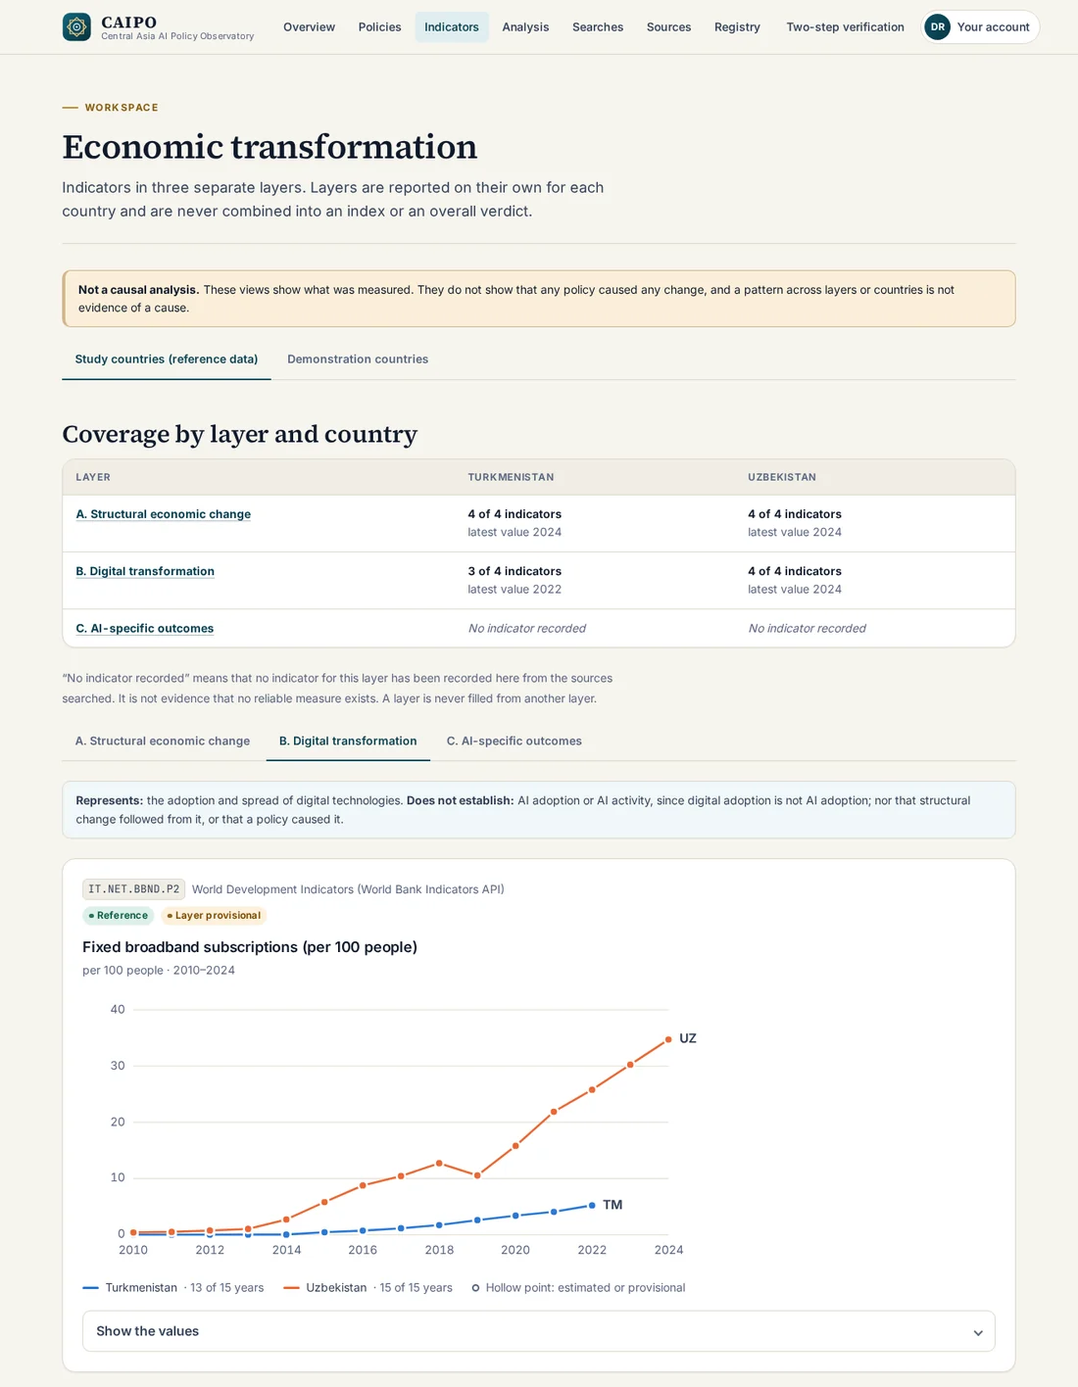
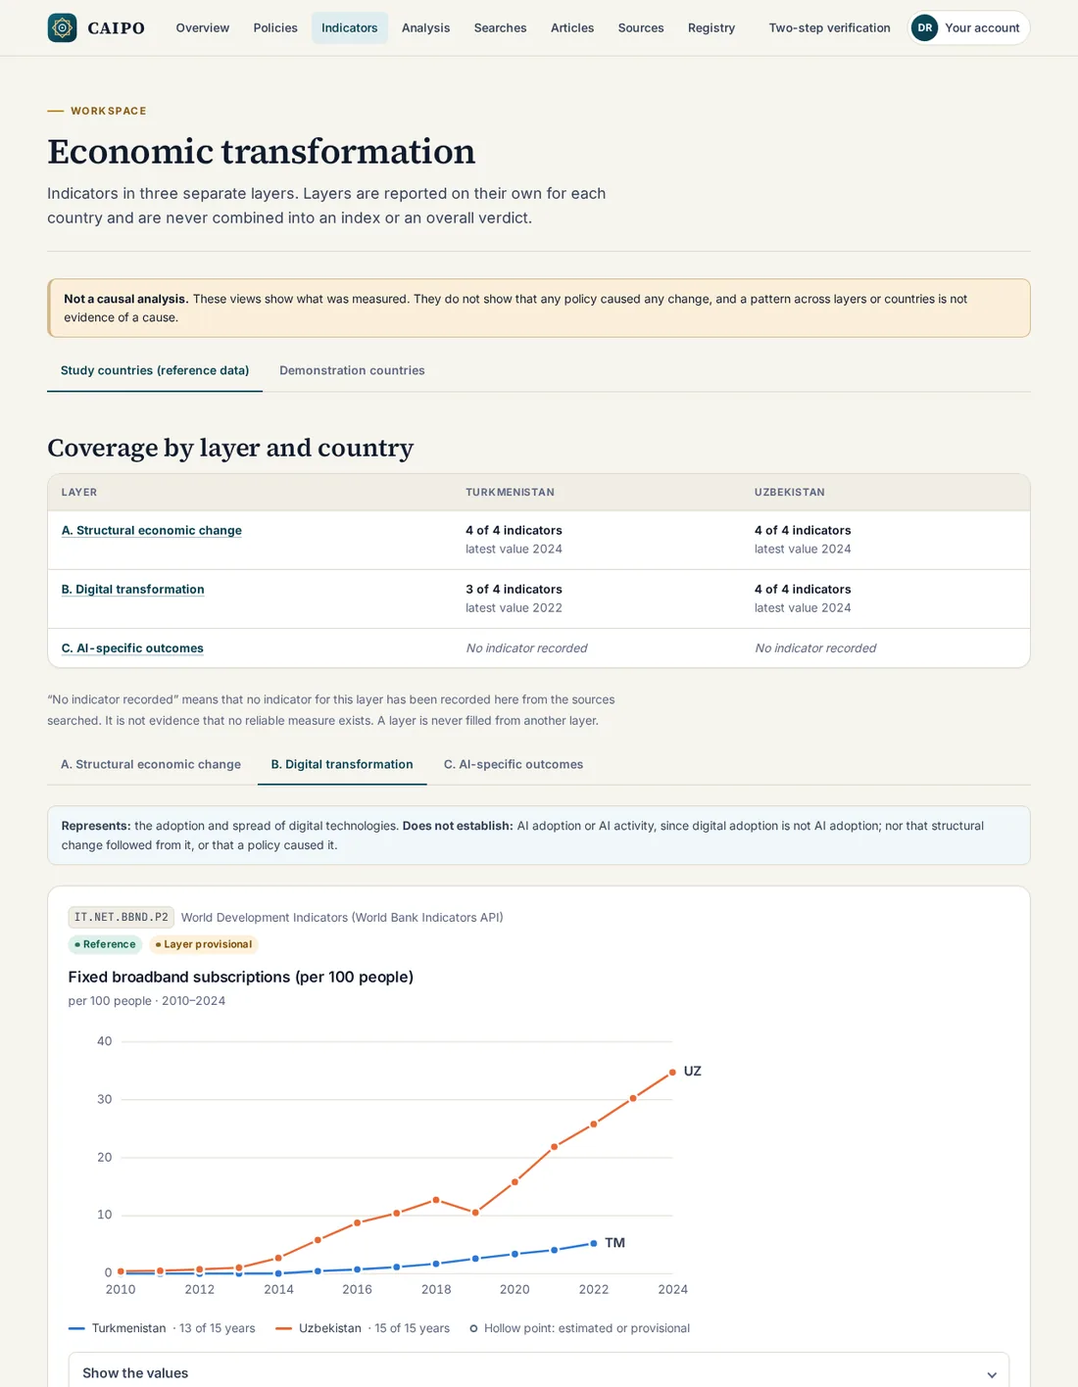
fix: export numbers as numbers in the analysis CSV; rehearsal and fresh screenshots (Day 14)
A rehearsal of the whole demonstration, from an empty database, found that
the CSV export of an analysis wrote a negative number as text with a leading
apostrophe ('-6.352022). SECURITY.md says numeric cells are written as
numbers and are not altered. The stored result holds its values as exact
decimal text, so the export now passes those columns as Decimals, and
safe_cell writes an int or a Decimal as it is. Text that begins like a
formula, including the text "-1", is still neutralised.

- tests first: a number is not altered, a bool is not a number, and a fall
  is exported as a negative number
- the README screenshots are taken again on a database that holds only the
  seeded records, with two new ones (articles, registration) and a row for
  contributed articles; test counts in README and DEMO.md updated
- DEMO.md records the rehearsal; the tracker records Day 13 as DONE and the
  rehearsal, with the defect it found

diff --git a/caipo/web/tests/test_research_pages.py b/caipo/web/tests/test_research_pages.py
@@ -159,6 +159,62 @@ def test_a_cell_that_looks_like_a_formula_is_neutralised(value: str) -> None:
     assert safe_cell(value) == "'" + value
 
 
+@pytest.mark.parametrize(
+    ("value", "written"),
+    [(Decimal("-6.352022"), "-6.352022"), (Decimal("12.5"), "12.5"), (-3, "-3"), (2024, "2024")],
+)
+def test_a_number_is_written_as_a_number_and_not_altered(value: object, written: str) -> None:
+    """SECURITY.md, "Export safety": numeric cells are written as numbers and are not altered."""
+    assert safe_cell(value) == written
+
+
+def test_a_bool_is_not_taken_for_a_number() -> None:
+    assert safe_cell(True) == "True"
+
+
+def test_a_fall_is_exported_as_a_negative_number(acting_as: ActingAs, reader: Client) -> None:
+    world = make_world()
+    actor = acting_as(Role.RESEARCHER)
+    source = make_source(actor, world)
+    indicator = indicator_services.create_indicator(
+        actor=actor,
+        source=source,
+        code="TEST-F",
+        name="TEST fall",
+        unit="%",
+        layer="A",
+        layer_reason="TEST",
+    )
+    indicator_services.import_release(
+        actor=actor,
+        source=source,
+        label="TEST release",
+        retrieved_on=date(2026, 1, 1),
+        file_name="t",
+        sha256="e" * 64,
+        rows=[
+            ObservationRow("TEST-F", "XA", 2020, Decimal("3"), "reported"),
+            ObservationRow("TEST-F", "XA", 2021, Decimal("1"), "reported"),
+        ],
+    )
+    run = services.run_analysis(
+        actor=actor,
+        title="TEST fall",
+        data_class="demonstration",
+        indicators=[indicator],
+        start_year=2020,
+        end_year=2021,
+    )
+
+    rows = list(csv.reader(io.StringIO(_text(reader.get(f"/analysis/{run}/export.csv")))))
+    header = next(row for row in rows if row and row[0] == "data_class")
+    data = rows[rows.index(header) + 1]
+
+    assert data[header.index("absolute_change")] == "-2.000000"
+    assert Decimal(data[header.index("relative_change_percent")]) == Decimal("-66.666667")
+    assert data[header.index("start_value")] == "3"
+
+
 def test_a_researcher_records_a_search_and_its_negative_finding_is_bounded(
     researcher: Client, records: dict[str, Any]
 ) -> None:

diff --git a/caipo/web/research.py b/caipo/web/research.py
@@ -6,6 +6,7 @@ permission again. Checking a run's reproducibility writes nothing.
 """
 
 import uuid
+from decimal import Decimal
 from typing import Any
 
 from django.http import Http404, HttpRequest, HttpResponse, HttpResponseRedirect
@@ -44,6 +45,10 @@ _RESULT_COLUMNS = (
     "years_held",
     "years_missing",
     "values_flagged",
+)
+# The columns whose values the stored result holds as exact decimal text.
+_NUMERIC_COLUMNS = frozenset(
+    {"start_value", "end_value", "absolute_change", "relative_change_percent"}
 )
 
 
@@ -166,14 +171,23 @@ def _notes(entry: AnalysisEntry) -> list[str]:
 @never_cache
 @require_safe
 def analysis_csv(request: HttpRequest, public_id: uuid.UUID) -> HttpResponse:
-    """Export a run's result as CSV, with its provenance and methodology note."""
+    """Export a run's result as CSV, with its provenance and methodology note.
+
+    The stored result holds its values as exact decimal text; they are
+    written as numbers, so that a fall keeps its sign and is not quoted.
+    """
     _, entry = _run(request, public_id)
+
+    def cell(row: dict[str, Any], column: str) -> object:
+        value = row.get(column)
+        return Decimal(value) if column in _NUMERIC_COLUMNS and value is not None else value
+
     return csv_response(
         f"caipo-analysis-{entry.public_id}.csv",
         _notes(entry),
         ("data_class", *_RESULT_COLUMNS),
         (
-            (entry.data_class, *(row.get(column) for column in _RESULT_COLUMNS))
+            (entry.data_class, *(cell(row, column) for column in _RESULT_COLUMNS))
             for row in entry.result
         ),
     )

diff --git a/caipo/web/exports.py b/caipo/web/exports.py
@@ -11,6 +11,7 @@ import csv
 import io
 import json
 from collections.abc import Iterable, Sequence
+from decimal import Decimal
 from typing import Any
 
 from django.http import HttpResponse
@@ -25,7 +26,14 @@ NON_CAUSATION = (
 
 
 def safe_cell(value: object) -> str:
-    """Return a value as CSV text that no spreadsheet will run as a formula."""
+    """Return a value as CSV text that no spreadsheet will run as a formula.
+
+    A number (an int or a Decimal, never a bool) is written as it is: it
+    cannot run, and a sign is part of its value (SECURITY.md, "Export
+    safety"). Text that begins as a formula would is kept as text.
+    """
+    if isinstance(value, int | Decimal) and not isinstance(value, bool):
+        return str(value)
     text = "" if value is None else str(value)
     if text.startswith(_FORMULA_START):
         return "'" + text

diff --git a/docs/EXECUTION_TRACKER.md b/docs/EXECUTION_TRACKER.md
@@ -1,6 +1,6 @@
 # Execution Tracker
 
-Status: Progress record, updated with every execution Day · Last updated: 2026-11-03
+Status: Progress record, updated with every execution Day · Last updated: 2026-11-04
 
 This file records progress: what is done, what is waiting, and what comes next. **It decides nothing.** Requirements, phases, gates, blocker status, research rules, and architecture decisions are set by [PROJECT_SPECIFICATION.md](PROJECT_SPECIFICATION.md), the Accepted ADRs, [RESEARCH_PROTOCOL.md](RESEARCH_PROTOCOL.md), and the other documents listed in [CLAUDE.md](../CLAUDE.md). Where this file disagrees with them, they govern and this file is corrected. The rules for working with it are in [CLAUDE.md](../CLAUDE.md), "Execution workflow". It is the only progress tracker.
 
@@ -35,13 +35,13 @@ Fri 2026-11-06 is the buffer for review, CI, and merges. A Day whose pull reques
 
 ## 1. Verified repository state
 
-Verified on 2026-11-03, after the owner's merges of #39 and #40.
+Verified on 2026-11-04, after the owner's merge of #41.
 
 | Item | Value | How verified |
 |---|---|---|
-| `origin/main` | `efd4c6b`, the merge of #40 (Day 12), after `be8fb08` (#39, Day 11), `bcb9806` (#38, Day 10), `c66e2d4` (#37, Day 9), `2f42d68` (#36, Days 5 to 8), `9e5e9ea` (#31, Day 4), `5ba91c8` (#30, Day 3), and `7904e36` (#29, Day 2) | `git fetch`; `gh pr view 36` |
-| CI on the merges | `7904e36`: run 41352450005, all four checks passed, `4494 passed in 522.91s`. `5ba91c8`: run 41353530141, all four checks passed, `4511 passed in 642.12s`. `9e5e9ea`: run 41405637271, all four checks passed, `4674 passed in 631.67s`. `2f42d68`: run 41409027896, all four checks passed, `4787 passed in 682.99s`. `c66e2d4`: run 41413845532, all four checks passed, `4787 passed in 677.49s`, test job 712 s of its new 1,500 s. `bcb9806`: run 41426022585, all four checks passed, `4807 passed in 684.88s`, test job 721 s. `be8fb08`: run 41669533592, all four checks passed, `4876 passed in 692.82s`. `efd4c6b`: run 41672940236, all four checks passed, `4961 passed in 655.30s` | `gh run view`; job logs |
-| Pull requests | 40 merged, none closed without merging. #1 to #31 and #36 to #40 were merged into `main`. **#32 to #35 were merged into the branches they were stacked on** (`feat/sources-policies`, `feat/indicators`, `feat/research-workspace`, `feat/polish-quality`), not into `main`, on 2026-11-02 between 07:20 and 07:23 UTC; no CI ran on them, because CI runs only for pull requests into `main`. #36 brought Days 5 to 8 to `main`, merged as `2f42d68`. #40 was built on #39 and opened against `main`; its squash merge restored two tracker rows that Day 12 had deleted and Day 11 had added, which Day 13 deletes again (§11). Open: only the one that changes this file (Day 13) | `gh pr list`; merge bases |
+| `origin/main` | `6806c72`, the merge of #41 (Day 13), after `efd4c6b` (#40, Day 12), `be8fb08` (#39, Day 11), `bcb9806` (#38, Day 10), `c66e2d4` (#37, Day 9), `2f42d68` (#36, Days 5 to 8), `9e5e9ea` (#31, Day 4), `5ba91c8` (#30, Day 3), and `7904e36` (#29, Day 2) | `git fetch`; `gh pr view 36` |
+| CI on the merges | `7904e36`: run 41352450005, all four checks passed, `4494 passed in 522.91s`. `5ba91c8`: run 41353530141, all four checks passed, `4511 passed in 642.12s`. `9e5e9ea`: run 41405637271, all four checks passed, `4674 passed in 631.67s`. `2f42d68`: run 41409027896, all four checks passed, `4787 passed in 682.99s`. `c66e2d4`: run 41413845532, all four checks passed, `4787 passed in 677.49s`, test job 712 s of its new 1,500 s. `bcb9806`: run 41426022585, all four checks passed, `4807 passed in 684.88s`, test job 721 s. `be8fb08`: run 41669533592, all four checks passed, `4876 passed in 692.82s`. `efd4c6b`: run 41672940236, all four checks passed, `4961 passed in 655.30s`. `6806c72`: run 41772648126, all four checks passed, `4966 passed in 704.52s` | `gh run view`; job logs |
+| Pull requests | 41 merged, none closed without merging. #1 to #31 and #36 to #41 were merged into `main`. **#32 to #35 were merged into the branches they were stacked on** (`feat/sources-policies`, `feat/indicators`, `feat/research-workspace`, `feat/polish-quality`), not into `main`, on 2026-11-02 between 07:20 and 07:23 UTC; no CI ran on them, because CI runs only for pull requests into `main`. #36 brought Days 5 to 8 to `main`, merged as `2f42d68`. #40 was built on #39 and opened against `main`; its squash merge restored two tracker rows that Day 12 had deleted and Day 11 had added, which Day 13 deletes again (§11). Open: only the one that changes this file (Day 14) | `gh pr list`; merge bases |
 | Protection of `main` | Ruleset "Protect main": pull request required, the four checks required with strict status checks, no bypass | GitHub API, 2026-10-30 |
 | Phase and gate | Phase 1. Gate READY for Phase 1, NOT READY for Phase 2 and later. Unchanged by ADR-0020 | [PROJECT_SPECIFICATION.md](PROJECT_SPECIFICATION.md) §10 (authoritative) |
 | CI time headroom | The test job took 480 s to 738 s in the 25 successful runs from 2026-10-24 to 2026-11-02; runs of the same 4,494 tests ranged from 480 s to 699 s. Its limit was 900 s; Day 9 raises it to 1,500 s with the owner's approval (§9) | Job start and end times of those runs (`gh run view`) |
@@ -74,7 +74,7 @@ Counted from the packages in §4. No percentage is estimated.
 | Master-roadmap packages | 56 (57 listed, of which G1 is REMOVED) |
 | Sprint packages (S1 to S8) | 8 |
 | DONE | 15 (A1, H1, H6, E1, G3, F2 and F4 in their demonstrator forms, S1 to S8) |
-| AWAITING OWNER MERGE | 0; Day 13's pull request closes no package by itself |
+| AWAITING OWNER MERGE | 0; Day 14's pull request closes no package by itself |
 | Sprint packages NOT STARTED or BLOCKED on another sprint package | 0 |
 | Master-roadmap packages PARTIAL | 5 (A3, E2, E4, G4, J1; §12 says what is missing) |
 | Master-roadmap packages BLOCKED | 41 |
@@ -235,7 +235,8 @@ A Day is one unit of work by Claude Code, with one coherent deliverable and writ
 | 10 | Translatable refusal messages, reflow at 400 % zoom, accessibility tree | G4 | 2026-11-02 | **DONE**: merged as `bcb9806`; CI run 41426022585 passed all four checks; `4807 passed` | #38 |
 | 11 | Registration on the site for the Reader role, and where development messages go | Owner request of 2026-11-03 | 2026-11-03 | **DONE**: merged as `be8fb08`; CI run 41669533592 passed all four checks; `4876 passed` | #39 |
 | 12 | Contributed articles, published after review | Owner request of 2026-11-03 | 2026-11-03 | **DONE**: merged as `efd4c6b`; CI run 41672940236 passed all four checks; `4961 passed` | #40 |
-| 13 | A page to add an indicator; tracker corrections after the merges of Days 11 and 12 | J1 (acceptance list, item B) | 2026-11-03 | AWAITING OWNER MERGE | The pull request that changes this file |
+| 13 | A page to add an indicator; tracker corrections after the merges of Days 11 and 12 | J1 (acceptance list, item B) | 2026-11-03 | **DONE**: merged as `6806c72`; CI run 41772648126 passed all four checks; `4966 passed` | #41 |
+| 14 | Final delivery check: a rehearsal of the demonstration from an empty database, refreshed screenshots, and the defect it found | J1 | 2026-11-04 | AWAITING OWNER MERGE | The pull request that changes this file |
 
 ### Planned Days
 
@@ -266,7 +267,7 @@ Days 5 to 8 get full checklists when they start; their deliverables are in §4.1
 
 | Pull request | Day | Head | Status |
 |---|---|---|---|
-| The pull request that changes this file | 13 | Reported when it is opened | Awaiting CI, then the owner's merge |
+| The pull request that changes this file | 14 | Reported when it is opened | Awaiting CI, then the owner's merge |
 
 ## 8. Blockers and dependencies
 
@@ -303,6 +304,7 @@ Authoritative status: [PROJECT_SPECIFICATION.md](PROJECT_SPECIFICATION.md) §10 
 | 2026-11-03 | **Provisional**, within ADR-0022: who may send (Reader, Researcher, Reviewer) and who may review (Reviewer and Administrator, with a second factor); five articles a day from one account; the length of each part; a withdrawal after publication; reviewers' own pages, because an Administrator does not read the workspace | Claude Code, under the owner's delegation | ADR-0022; `caipo/accounts/authorization.py` |
 | 2026-11-03 | **Provisional**, within ADR-0021: the limits (ten registrations an hour from one source; three verification messages an hour to one waiting account), the three account event types, the Reader grant without an actor, and the note about `data/outbox/` on the registration and password reset pages in development | Claude Code, under the owner's delegation | ADR-0021; `caipo/config/settings/base.py` |
 | 2026-11-03 | Accessibility evidence for Days 11 and 12: axe-core 4.10.2 (scratch environment, not added to the project) finds no violation on the registration, sign-in, and home pages at 1280 and 390 CSS px in light and dark mode, nor on the six article pages, including the review pages of a verified Administrator. One defect found and fixed: the navigation of a signed-in account ran past the right edge at 1280 px once "Articles" was added, and an Administrator's already did at 1366 px. Its items now wrap onto a second line, and the tag line under the name gives way beside a navigation below 1500 px; no role's page scrolls sideways at 1181, 1280, 1366, or 1440 px | Claude Code | This file; `caipo/web/static/web/caipo.css` |
+| 2026-11-04 | Rehearsal of the demonstration (Day 14), on a database created empty: `check`, `migrate`, and `seed_demo` in 6 seconds; `create_first_administrator` driven at a pseudo-terminal with a code computed from the key it showed; then each step of the walk-through in [DEMO.md](DEMO.md), in a browser: the public home page, the Reader's overview, RP-358 with its derived status, the contextual registry, the demonstration strategy, layers B and C, *Reproduced exactly*, the CSV export, the bounded negative finding, the refusal of a demonstration policy for Turkmenistan and its creation for DEMO Northland, a new analysis run, a registration through the message in `data/outbox/`, an article published by the Administrator, and four pages at phone width in dark mode (no sideways scrolling, no axe-core violation). **One defect found and fixed:** the CSV export of an analysis wrote a negative number as text with a leading apostrophe (`'-6.352022`), against SECURITY.md's rule that numeric cells are not altered; numbers are now written as numbers, and text that begins like a formula is still neutralised. Screenshots in `docs/images/` were taken again, with two new ones (articles, registration) | Claude Code | This file; [DEMO.md](DEMO.md); `caipo/web/exports.py` |
 | 2026-10-30 | P-1 (part of Q-10), **provisional**: WCAG 2.2 level AA as the accessibility target of the demonstrator's pages, checked in S2 and S7 | Claude Code, under the owner's delegation to choose a reasonable default and record it as provisional | This file. The owner may replace it |
 
 ## 10. Decisions awaiting the owner
@@ -326,10 +328,10 @@ Recommended defaults are recommendations, not decisions. None of them blocks the
 
 ## 11. Next executable Day
 
-- **Day 13** (a page to add an indicator) is the pull request that changes this file. Days 11 and 12 are DONE (`be8fb08`, `efd4c6b`).
+- **Day 14** (final delivery check) is the pull request that changes this file. Days 11 to 13 are DONE (`be8fb08`, `efd4c6b`, `6806c72`).
 - **Correction of 2026-11-03.** #40 was built on #39 and opened against `main`. After #39 was squash-merged, the squash merge of #40 kept two rows of this file that Day 11 had added and Day 12 had deleted (the planned Day 12 and the open Q-15). Every other file on `main` is identical to what Day 12's checks ran on (`git diff c3fd485 efd4c6b`). Day 13 deletes the two rows again. A pull request built on another is compared with its own head after both merges.
 - **After the merges:** the owner runs `migrate` on the development database (accounts 0013 and 0014, articles 0001).
-- **What remains before 2026-11-06:** a check by a person using a screen reader (the owner), and a clean-setup run of the demonstration on an empty database.
+- **What remains before 2026-11-06:** a check by a person using a screen reader (the owner). The clean-setup rehearsal is done (Day 14, §9).
 - **Correction of 2026-11-02, kept for the record.** The stacked pull requests #32 to #35 were merged into their stack branches, not `main`, because GitHub retargets a stacked pull request only when its base branch is deleted. #36 brought their four commits to `main` unchanged. No pull request is stacked from now on unless it is retargeted to `main` by hand before it is merged.
 - **Before the demonstration:** the owner reads [DEMO.md](DEMO.md) and runs `seed_demo` on an empty development database.
 - **What remains of the owner's acceptance list (§12):** a page to add an indicator (an import of values stays out of the demonstrator by ADR-0020 point 3), and a check by a person using a screen reader. Then the post-sprint queue (§5).
@@ -346,7 +348,7 @@ The list of the owner's mandate of 2026-10-30, §11, checked on 2026-11-02 again
 | A. Seeded demonstration environment | Met | `seed_demo` on an empty database in under 3 seconds (Day 8) |
 | A. Working authentication | Met | Phase 1, with TOTP for Reviewers and Administrators; demonstration accounts for Researcher and Reader; registration on the site for the Reader role (Day 11) |
 | A. Complete primary user journeys | Met | `caipo/web/tests/test_journeys.py`, through the sign-in form on the seeded environment |
-| A. Functional backend and frontend | Met | 69 routes, each with a declared access; 4,961 tests passing in CI on `efd4c6b` |
+| A. Functional backend and frontend | Met | 69 routes, each with a declared access; 4,966 tests passing in CI on `6806c72`; the whole walk-through rehearsed in a browser from an empty database (Day 14) |
 | A. Error, empty, and loading states | Met for error and empty states | Error pages; empty states that say an empty list is not evidence of absence. Pages are rendered on the server, so there is no asynchronous loading to show |
 | B. Source and provenance management | Met | Sources and documents with publisher, address, access date, terms, permitted use, tier; releases with SHA-256 |
 | B. Policy instrument and provision records | Met | Policies, formal events, AI-related provisions with locators |

diff --git a/README.md b/README.md
@@ -24,7 +24,8 @@ CAIPO records public policy sources with their provenance, keeps the **core AI p
 | ![Economic transformation](docs/images/indicators.webp) | **Economic transformation.** Indicators in layers A (structural change), B (digital transformation), and C (AI-specific outcomes), never combined. Real World Bank values for Turkmenistan and Uzbekistan, with every gap shown as a gap; layer C is reported as having no indicator rather than dropped. |
 | ![Analysis](docs/images/analysis.webp) | **Analysis.** Descriptive change between two years, with every input value and its release, SHA-256 fingerprints of inputs and result, a one-click reproducibility check, and CSV and JSON exports carrying their provenance. |
 | ![Search](docs/images/search.webp) | **Searches.** How the absence of a source is recorded: as the bounded outcome of a documented search, never as a document. |
-| ![Dark mode](docs/images/indicators-dark.webp) | **Design.** A bespoke design system with light and dark themes, self-hosted fonts that cover Turkmen, Uzbek, and Russian, and layouts down to phone width ([phone](docs/images/phone.webp)). No violation of the WCAG 2.2 A/AA rules found by axe-core on 17 pages in either theme. |
+| ![Articles](docs/images/articles.webp) | **Articles.** Anyone can [register](docs/images/register.webp) a Reader account and contribute an article. A Reviewer or Administrator, signed in with a second factor, publishes it or declines it with a reason the author sees. Every [article](docs/images/article.webp) is labelled as its author's view, not evidence, and is published under CC BY 4.0. |
+| ![Dark mode](docs/images/indicators-dark.webp) | **Design.** A bespoke design system with light and dark themes, self-hosted fonts that cover Turkmen, Uzbek, and Russian, and layouts down to phone width ([phone](docs/images/phone.webp)). No violation of the WCAG 2.2 A/AA rules found by axe-core on 17 pages in either theme, nor on the registration, article, and indicator pages added since. |
 
 ## Real data and demonstration data are never mixed
 
@@ -82,7 +83,7 @@ Sign in as `demo.researcher@caipo.test` (can add records and run analyses) or `d
 To run the checks:
 
 ```sh
-uv run --env-file .env pytest                 # about 4,800 tests, about 10 minutes
+uv run --env-file .env pytest                 # about 5,000 tests, about 12 minutes
 uv run ruff check . && uv run ruff format --check . && uv run mypy && uv run lint-imports
 ```
 

diff --git a/docs/DEMO.md b/docs/DEMO.md
@@ -16,7 +16,7 @@ A walk-through of 5 to 10 minutes for a professor or a reviewer, and an honest a
    uv run --env-file .env python manage.py runserver
    ```
 
-   Verified on 2026-11-02 on an empty database: `check`, `migrate`, and `seed_demo` together took under 3 seconds, and `/health/ready/` answered `ok`.
+   Verified on 2026-11-02 on an empty database: `check`, `migrate`, and `seed_demo` together took under 3 seconds, and `/health/ready/` answered `ok`. **Rehearsed on 2026-11-04** from an empty database: `check`, `migrate`, and `seed_demo` in 6 seconds; `create_first_administrator` at a terminal, with a code from an authenticator; then every step of the table below in a browser, including a registration through the message in `data/outbox/` and an article that the Administrator published. Each gave what the table says.
 3. Open two browser windows: one signed in as `demo.reader@caipo.test`, one as `demo.researcher@caipo.test`. Keep a third, signed out, on `http://127.0.0.1:8000/`.
 4. To show the review of articles, also sign in as an Administrator with two-step verification: the one `create_first_administrator` created ([DEVELOPMENT.md](DEVELOPMENT.md)). `seed_demo` creates no Administrator, because one cannot exist without a second factor.
 
@@ -57,7 +57,7 @@ Questions it is worth being ready for:
 - The registry, and the general audit record of every change.
 - Sources, documents (metadata), policies with formal events and AI-related provisions, indicators, dataset releases, observations, analysis runs, search runs, and their pages, forms, and exports ([DATA_MODEL.md](DATA_MODEL.md) §7a).
 - Integrity enforced by PostgreSQL: data-class checks, append-only and delete-refusing triggers, the missing-value rule, the no-reference-text rule.
-- About 4,800 automated tests, including end-to-end journeys on the seeded environment; strict type checking; import-layer contracts; CI on every pull request.
+- About 5,000 automated tests, including end-to-end journeys on the seeded environment; strict type checking; import-layer contracts; CI on every pull request.
 
 ### Real data, used within its limits
 
